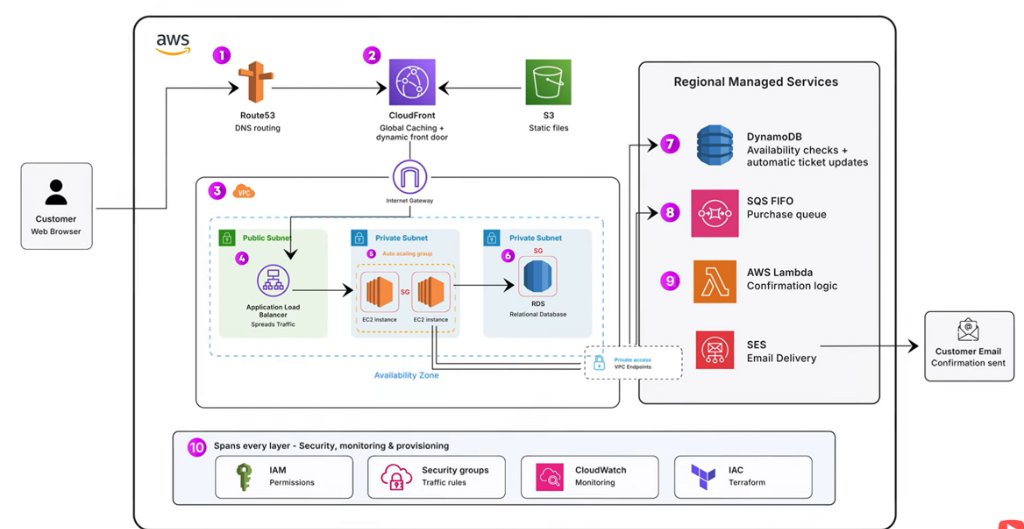
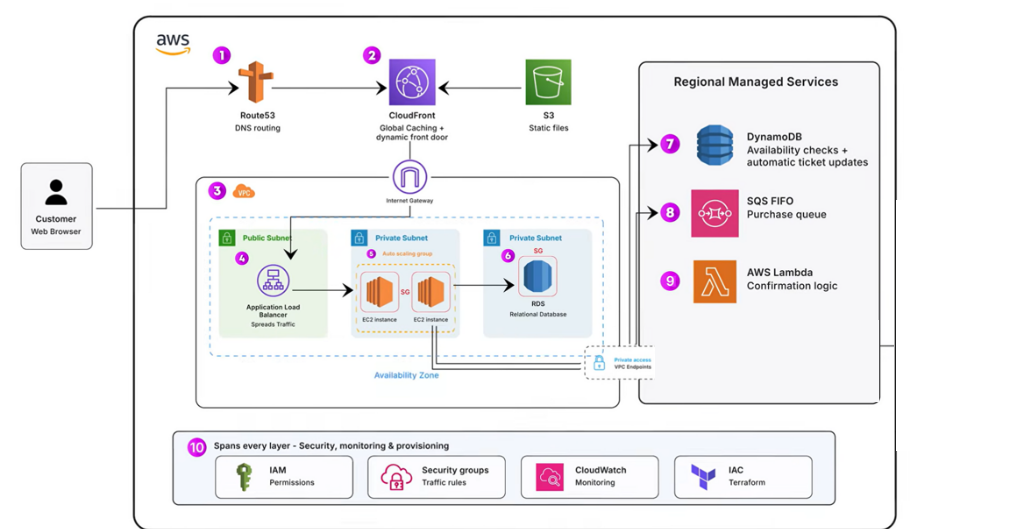
Update architecture diagram and live system preview to reflect SES-free architecture

diff --git a/frontend/index.html b/frontend/index.html
@@ -569,7 +569,18 @@
               amount: selectedSeat.price
             })
           });
-          const data = await res.json();
+          let data = {};
+          try {
+            const rawText = await res.text();
+            try {
+              data = JSON.parse(rawText);
+            } catch (pErr) {
+              const matched = rawText.match(/\{[\s\S]*\}/);
+              data = matched ? JSON.parse(matched[0]) : {};
+            }
+          } catch (fetchErr) {
+            data = {};
+          }
           if (res.status === 202 || res.ok) {
             orderId = data.order?.orderId || orderId;
             queueMessageId = data.order?.queueMessageId || queueMessageId;
